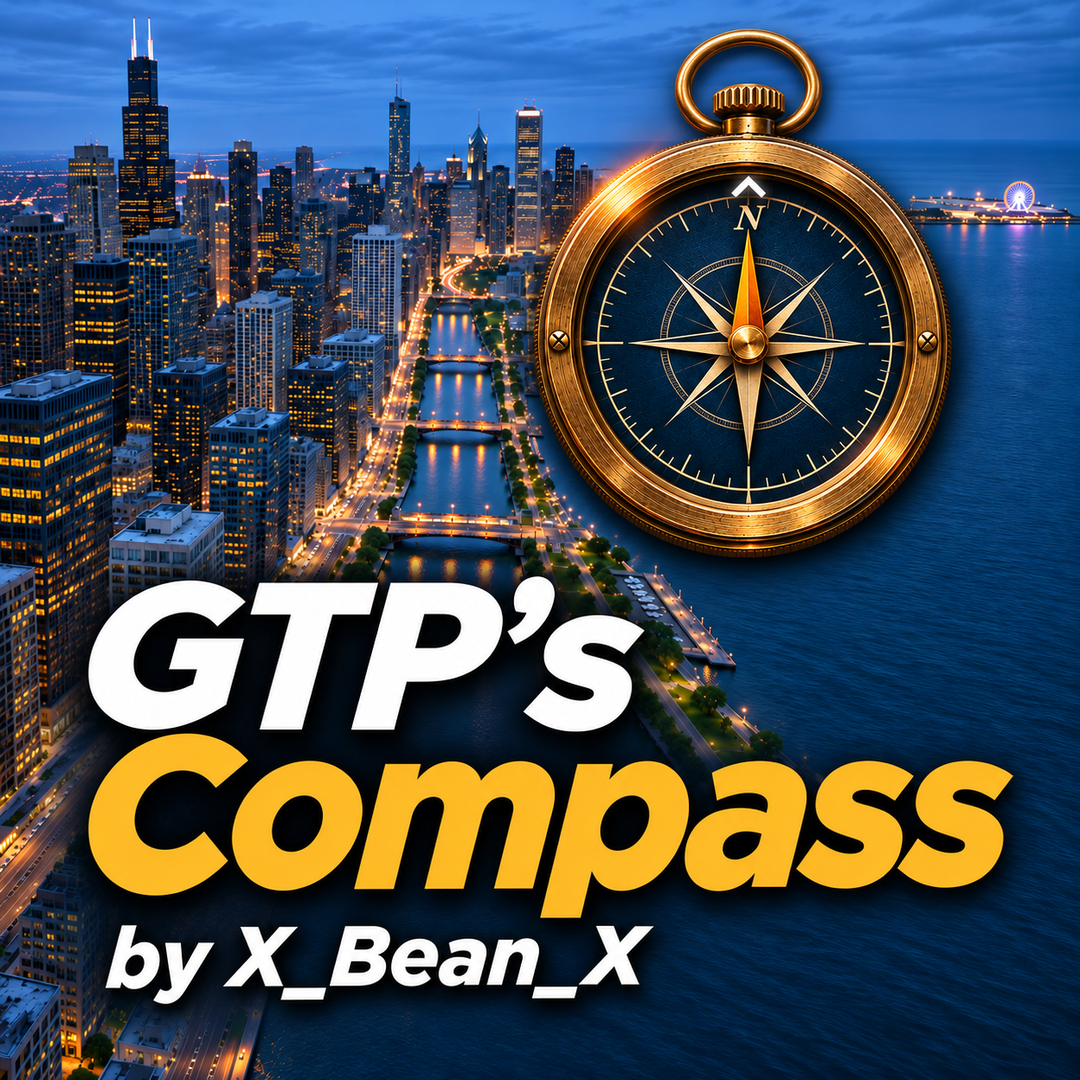
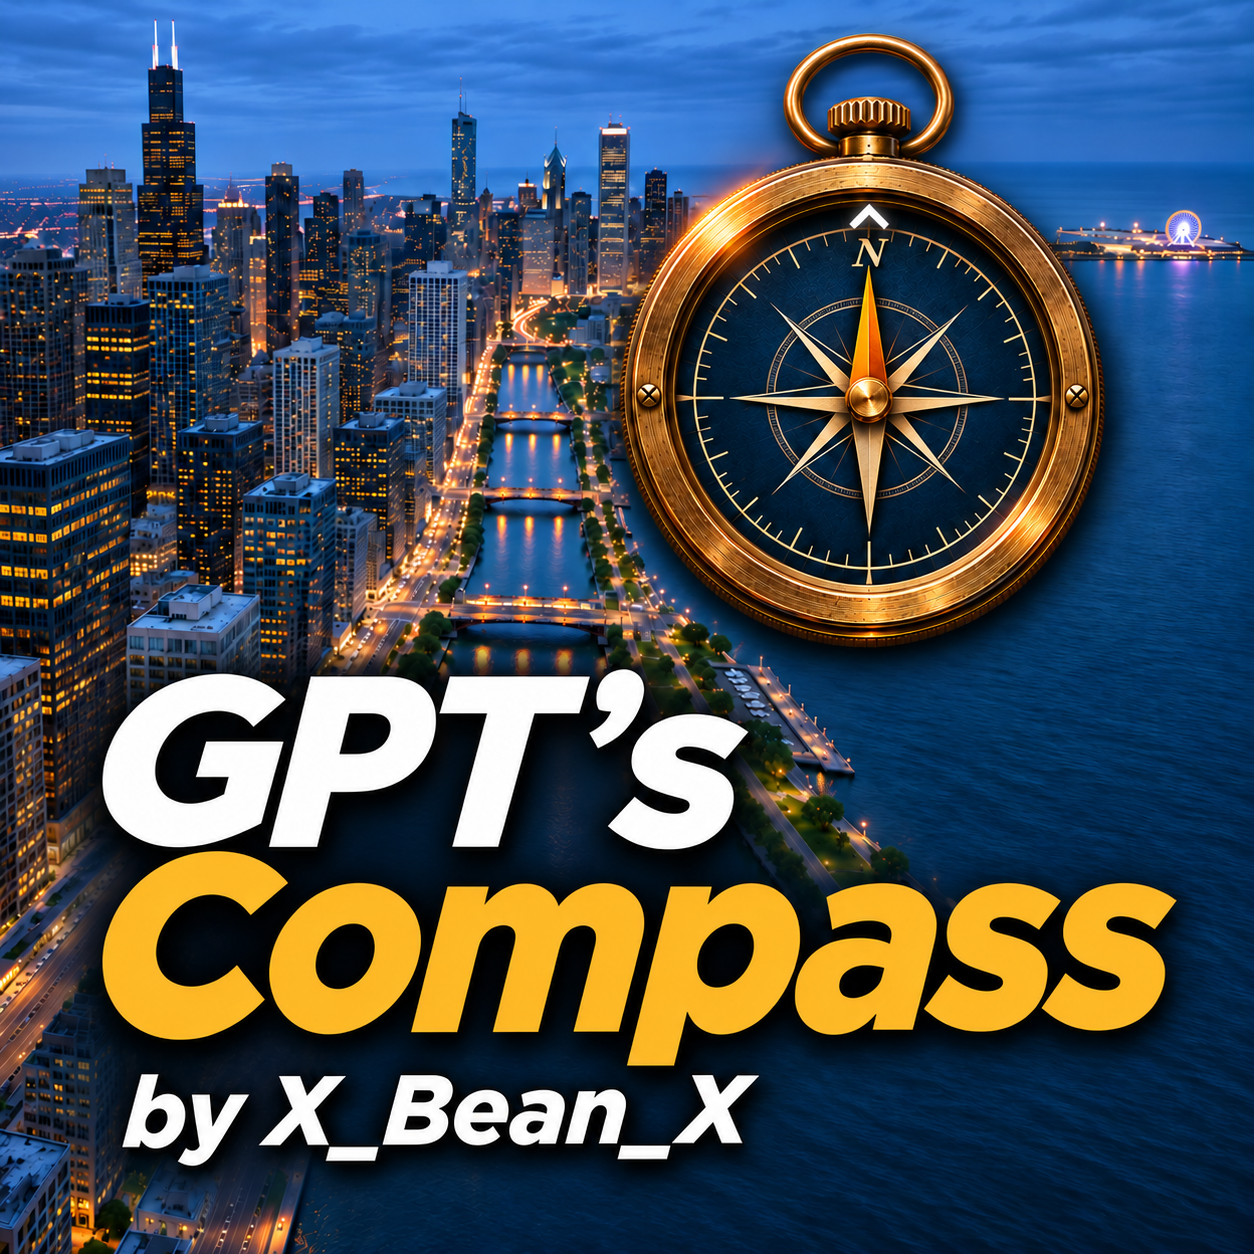
Correct the Compass title and listing artwork

diff --git a/Mod.cs b/Mod.cs
@@ -15,7 +15,7 @@ namespace GTPCompass
     public sealed class Mod : IMod
     {
         internal const string Id = "GTPCompass";
-        internal const string Title = "GTP's Compass by X_Bean_X";
+        internal const string Title = "GPT's Compass by X_Bean_X";
         internal const string Version = "1.0.0";
         internal static readonly ILog Log = LogManager.GetLogger(Id).SetShowsErrorsInUI(false);
         internal static CompassSettings Settings { get; private set; }

diff --git a/AssemblyInfo.cs b/AssemblyInfo.cs
@@ -1,7 +1,7 @@
 using System.Reflection;
 
-[assembly: AssemblyTitle("GTP's Compass by X_Bean_X")]
-[assembly: AssemblyProduct("GTP's Compass by X_Bean_X")]
+[assembly: AssemblyTitle("GPT's Compass by X_Bean_X")]
+[assembly: AssemblyProduct("GPT's Compass by X_Bean_X")]
 [assembly: AssemblyCompany("X_Bean_X")]
 [assembly: AssemblyDescription("Map compass and camera orientation shortcuts for Cities: Skylines II")]
 [assembly: AssemblyVersion("1.0.0.0")]

diff --git a/README.md b/README.md
@@ -1,11 +1,13 @@
-# GTP's Compass by X_Bean_X
+# GPT's Compass by X_Bean_X
 
 See map north and your camera heading in Cities: Skylines II. Keep the compass hovering over the map or anchor it to the toolbar.
 
+<img src="Artwork/Thumbnail.png" width="360" alt="GPT's Compass by X_Bean_X — Brass on Chicago">
+
 - [Paradox Mods](https://mods.paradoxplaza.com/mods/167813/Windows)
-- [v1.0.0 Windows ZIP](https://github.com/X-X-Bean-X-X/GTPsCompass/releases/download/v1.0.0/GTPCompass-1.0.0-Windows.zip) for game version 1.6.4f1
+- [v1.0.0 Windows ZIP](https://github.com/X-X-Bean-X-X/GPTs-Compass/releases/download/v1.0.0/GTPCompass-1.0.0-Windows.zip) for game version 1.6.4f1
 - [Controls and options](Mod%20Description.md)
-- [Ten compass styles](Artwork/CompassStyles.png) and the [Brass on Chicago cover](Artwork/Thumbnail.png)
+- [Ten compass styles](Artwork/CompassStyles.png)
 
 ## Install
 

diff --git a/Mod Description.md b/Mod Description.md
@@ -1,4 +1,4 @@
-# GTP's Compass by X_Bean_X
+# GPT's Compass by X_Bean_X
 
 See map north and your camera heading in Cities: Skylines II.
 
